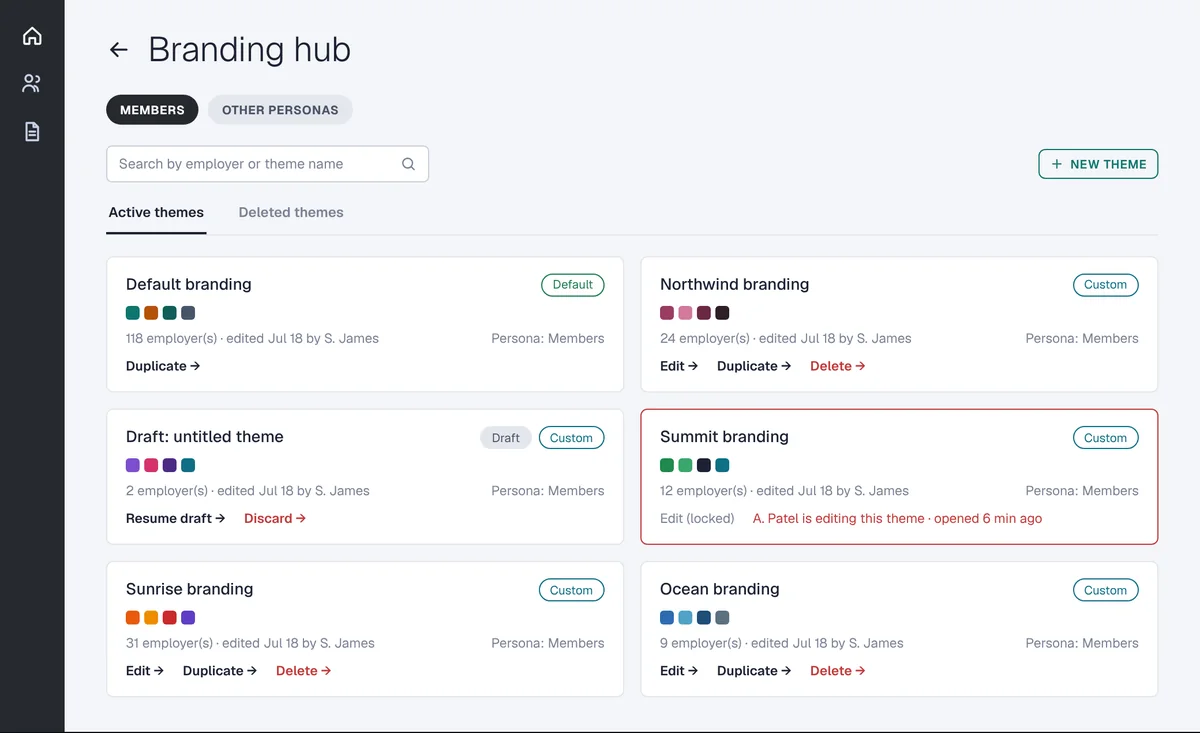
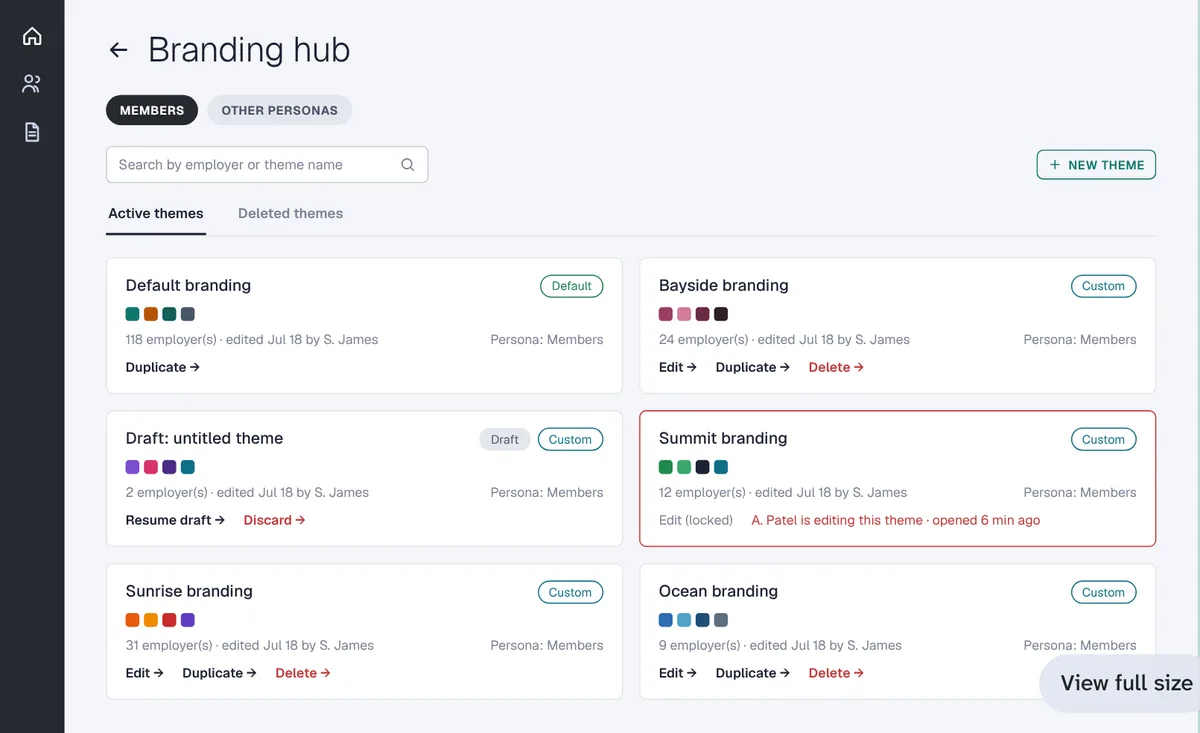
Fix 7: replace Microsoft sample brand names in the demo screens
Contoso, Northwind, Fabrikam, Tailspin Toys, Litware, Adatum, Proseware and
Wingtip become invented local names (Bayside, Harborview, Cedar Ridge and
others). The Branding hub deck image and the two passive-enrollment tiles
are recaptured. DECISIONS noted.

Claude-Session: https://claude.ai/code/session_01Q8UYrARqx44LcuhG8F9ybN

diff --git a/src/components/screens/admin.tsx b/src/components/screens/admin.tsx
@@ -21,7 +21,7 @@ function AdminFrame({ crumbs = true, children }: { crumbs?: boolean; children: R
       <div>
         {crumbs && (
           <div className={s.crumbs}>
-            {["Public sector", "Contoso Group", "Regional office"].map((c, i) => (
+            {["Public sector", "Harborview Group", "Regional office"].map((c, i) => (
               <span key={c} style={{ display: "contents" }}>
                 {i > 0 && <span style={{ border: 0, padding: 0 }}>»</span>}
                 <span>
@@ -339,7 +339,7 @@ export function PeReport() {
 
 const themes: { n: string; c: string[]; tag: "Default" | "Custom"; draft?: boolean; locked?: string; emp: number }[] = [
   { n: "Default branding", c: ["#0f766e", "#b45309", "#115e59", "#475569"], tag: "Default", emp: 118 },
-  { n: "Northwind branding", c: ["#9b3d63", "#d27a9c", "#6b2945", "#2e1f27"], tag: "Custom", emp: 24 },
+  { n: "Bayside branding", c: ["#9b3d63", "#d27a9c", "#6b2945", "#2e1f27"], tag: "Custom", emp: 24 },
   { n: "Untitled theme", c: ["#7c4dce", "#d6336c", "#4b2a86", "#0f6f86"], tag: "Custom", draft: true, emp: 2 },
   { n: "Summit branding", c: ["#1f8a4c", "#3aa76d", "#1b2233", "#0f6f86"], tag: "Custom", locked: "A. Patel is editing this theme · opened 6 min ago", emp: 12 },
   { n: "Sunrise branding", c: ["#e8590c", "#f08c00", "#c92a2a", "#5f3dc4"], tag: "Custom", emp: 31 },
@@ -443,7 +443,7 @@ export function BhEditor() {
         <p>These settings apply to the member persona only. Renaming a theme doesn&apos;t change which employers use it.</p>
         <label className={s.field}>
           Name
-          <span style={{ color: "var(--m-ink)" }}>Northwind branding</span>
+          <span style={{ color: "var(--m-ink)" }}>Bayside branding</span>
         </label>
       </section>
       <section className={s.panel}>
@@ -488,7 +488,7 @@ export function BhEditor() {
   );
 }
 
-const northwind = {
+const bayside = {
   "--m-brand": "#9b3d63",
   "--m-brand-ink": "#6b2945",
   "--m-brand-soft": "#f6e9ef",
@@ -499,18 +499,18 @@ export function BhPreview() {
   return (
     <div className={`${s.screen} ${s.doc}`} style={{ padding: 0, background: "var(--m-canvas)" }}>
       <div className={s.previewHead}>
-        <h2>Preview: Northwind branding</h2>
+        <h2>Preview: Bayside branding</h2>
         <I n="x" />
       </div>
       <p className={s.previewNote}>This preview shows the colours applied to the interface. Layout and content are for illustration only.</p>
       <div style={{ margin: "0 20px 20px", border: "1px solid var(--m-line)", borderRadius: 8, overflow: "hidden" }}>
-        <DsDashboard style={northwind} banner />
+        <DsDashboard style={bayside} banner />
       </div>
     </div>
   );
 }
 
-const employers = ["Northwind Traders", "Contoso Health", "Fabrikam Inc.", "Tailspin Toys", "Litware", "Adatum Corp.", "Proseware", "Wingtip Partners"];
+const employers = ["Bayside Logistics", "Harborview Health", "Cedar Ridge Foods", "Lakeview Credit Union", "Prairie Steelworks", "Elm Street Bakeries", "Summit Fleet Services", "Riverbend Clinics"];
 
 export function BhAssign() {
   return (

diff --git a/docs/ux/DECISIONS.md b/docs/ux/DECISIONS.md
@@ -94,3 +94,4 @@
 - 2026-10-12: Ali: the rail needs no numbers, a dash per case is enough (like dots under a slider). Rail is now six dashes; the current case gets a longer accent dash.
 - 2026-10-12: Fix 4 (hero result number) skipped by Ali. Fix 5: case 04 live panel loses the green dot, the "Live now" label and the blue glow; it is a flat raised panel with the title, note and button.
 - 2026-10-12: Fix 6: the contact section drops the blueprint grid, crosshair corners, blue glow, two-colour headline and live IST clock. One heading ("Email is the fastest way to reach me."), one sentence, three buttons, and email and city as plain text, with a hairline above. Still centred; alignment is fix 10.
+- 2026-10-12: Fix 7: Microsoft sample brand names (Contoso, Northwind, Fabrikam, Tailspin Toys, Litware, Adatum, Proseware, Wingtip) replaced in the admin demo screens with invented local names (Bayside, Harborview, Cedar Ridge and others). The Branding hub deck image and the two passive-enrollment tiles were recaptured.
